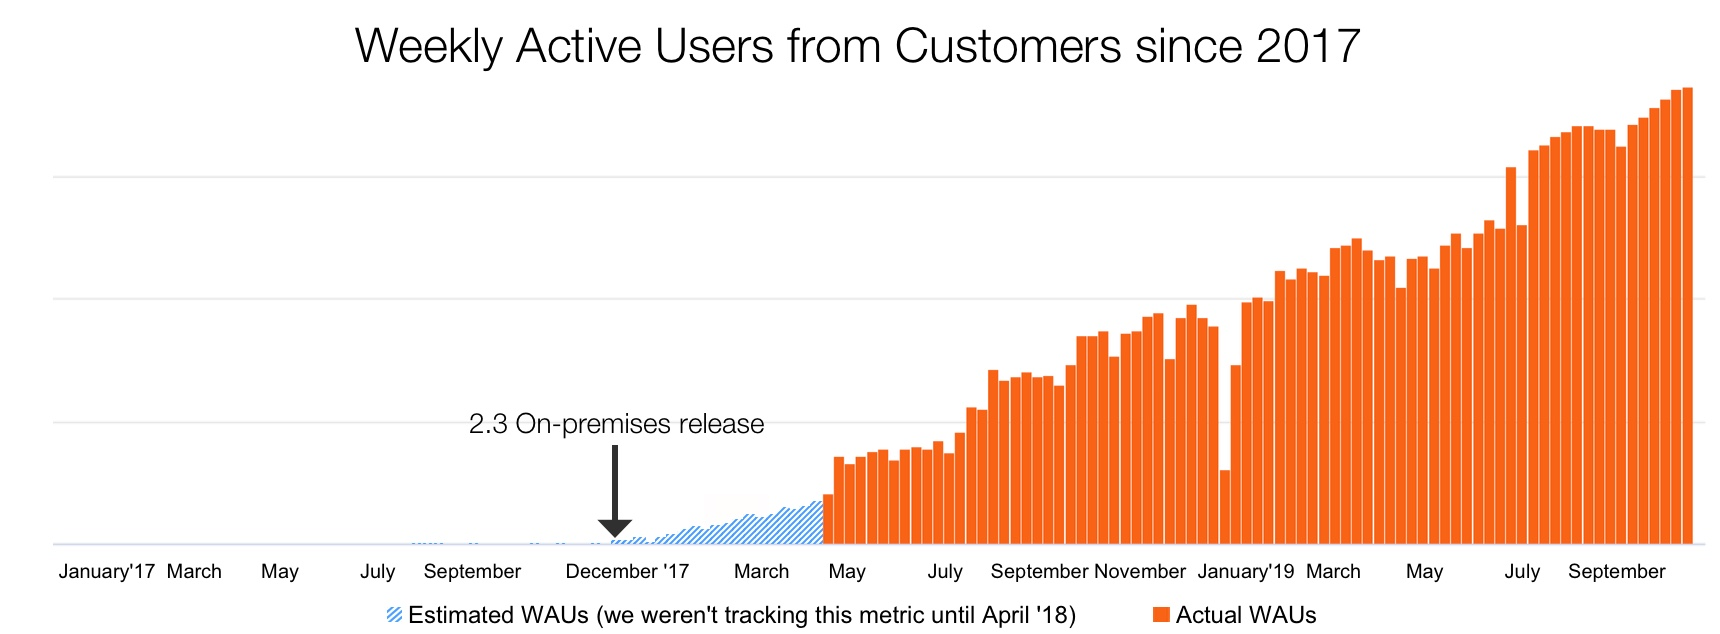
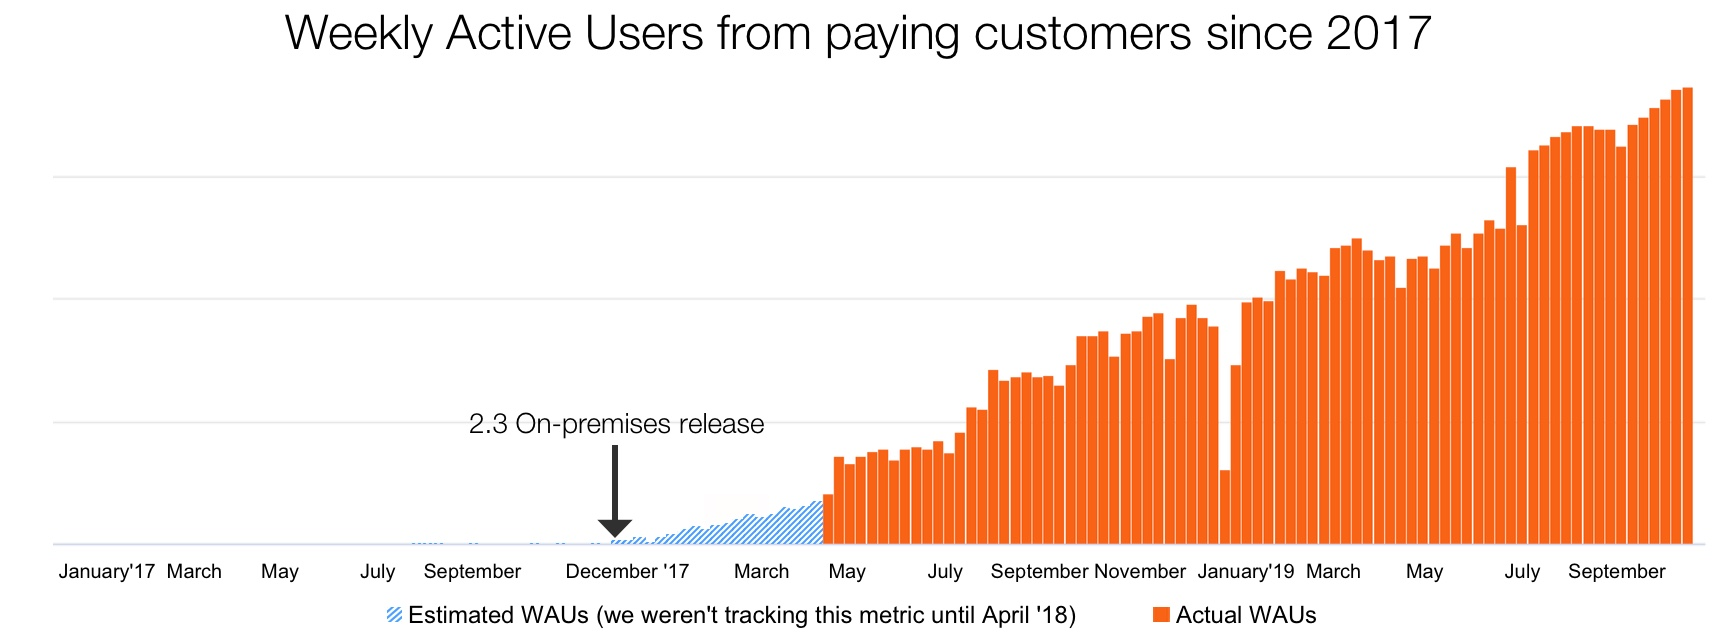
update chart titles

Changed region(s): [[0.1541, 0.0, 0.832, 0.1199]]

diff --git a/blogposts/from-saas-to-on-prem.md b/blogposts/from-saas-to-on-prem.md
@@ -31,7 +31,7 @@ To make it simple for our customers to stay on the latest Sourcegraph version, w
 ## Code Base Security
 Many of our customers have high security requirements and don’t feel comfortable uploading their private code to an external cloud software provider. They prefer a solution that can run on their own infrastructure, under their own security terms and authorization mechanisms, with full control over who has access. Since the release of Sourcegraph 2.3 as an on-premises, self-hosted product, we’ve experienced much higher Sourcegraph adoption rates for enterprise usage.
 
-![Weekly Active Users from Customers since 2017](images/on-prem-customerWAUs.jpg "Weekly Active Users from Customers since 2017")
+![Weekly Active Users from paying customers since 2017](images/on-prem-customerWAUs.jpg "Weekly Active Users from paying customers since 2017")
 
 Companies can deploy in-house without exposing their code to Sourcegraph employees or other providers. This allows anyone at a company to start running Sourcegraph locally and hassle-free, instead of needing to ask permission to source out the codebase up to an unauthorized cloud infrastructure provider.
 
@@ -49,6 +49,6 @@ Occasionally, things go wrong. One of the challenges of dealing with customer ho
 ## Conclusion
 Switching from SaaS to on-premises was essential for Sourcegraph to become the de facto developer platform that all engineers use among top companies like Lyft, Uber, Plaid, Convoy and many more. Our main challenges are maintaining high standards for our code quality to reduce the more tedious debugging process of an on-premises solution and ensuring Sourcegraph runs smoothly in different environments. The majority of our customers run fairly up-to-date Sourcegraph versions. We are able to achieve this by making our upgrade process as simple as possible and communicating our enticing new features to our customers. 
 
-![Customer versions](images/on-prem-customerversions.jpg "Customer versions")
+![Current customer versions (as of October 2019)](images/on-prem-customerversions.jpg "Current customer versions (as of October 2019)")
 
 While SaaS may be the right solution for a variety of products, providing on-premises deployment turned out to be the deciding factor for security-conscious companies to adopt Sourcegraph.
